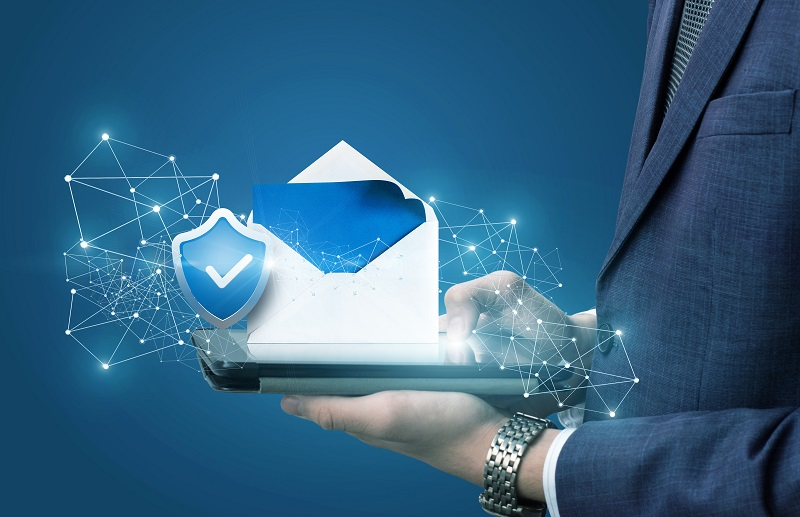
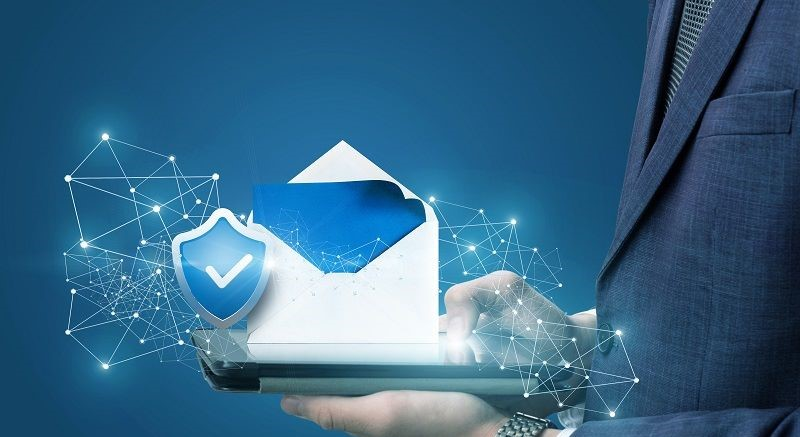
Updated  responsive images

diff --git a/CSS/style.css b/CSS/style.css
@@ -181,7 +181,7 @@ body {
     text-align: center; }
 
 .section-hero {
-  background-image: linear-gradient(to right, rgba(38, 92, 165, 0.9), rgba(43, 92, 157, 0.53)), url(../img/email-secure.jpg);
+  background-image: linear-gradient(to right, rgba(43, 92, 157, 0.9), rgba(38, 92, 165, 0.9)), url(../img/email-secure.jpg);
   background-size: cover;
   background-position: center;
   grid-column: 1/-1;
@@ -191,7 +191,7 @@ body {
   padding: 6rem 4rem; }
   @media only screen and (max-width: 50.3em) {
     .section-hero {
-      grid-template-rows: 85vh; } }
+      grid-template-rows: 80vh; } }
 
 .hero {
   grid-column: 1/-1;
@@ -718,9 +718,9 @@ body {
         margin-top: 6rem; } }
 
 .navigation-header {
-  background-image: linear-gradient(to right, #265ca5, rgba(43, 92, 157, 0.93));
+  background-image: linear-gradient(to right, #2b5c9d, rgba(38, 92, 165, 0.7));
   grid-column: 1/-1;
-  grid-row: navigation-start/ navigation-end;
+  grid-row: navigation-start / navigation-end;
   display: flex;
   justify-content: space-between;
   align-items: center;

diff --git a/sass/_header.scss b/sass/_header.scss
@@ -1,5 +1,5 @@
 .section-hero {
-    background-image: linear-gradient(to right, rgba($color-primary, .9), rgba($color-primary-light, .53)), url(../img/email-secure.jpg);
+    background-image: linear-gradient(to right, rgba($color-primary-light, .9), rgba($color-primary, .9)), url(../img/email-secure.jpg);
     background-size: cover;
     background-position: center;
     grid-column: 1/-1;
@@ -10,7 +10,7 @@
 
 
     @media only screen and (max-width:$bp-big) {
-        grid-template-rows: 85vh;
+        grid-template-rows: 80vh;
     }
 }
 

diff --git a/sass/_nav.scss b/sass/_nav.scss
@@ -1,7 +1,7 @@
 .navigation-header {
-    background-image: linear-gradient(to right, rgba($color-primary, 2), rgba($color-primary-light, .93));
+    background-image: linear-gradient(to right, rgba($color-primary-light, 1), rgba($color-primary, .7));
     grid-column: 1/-1;
-    grid-row: navigation-start/ navigation-end;
+    grid-row: navigation-start / navigation-end;
 
     display: flex;
     justify-content: space-between;
